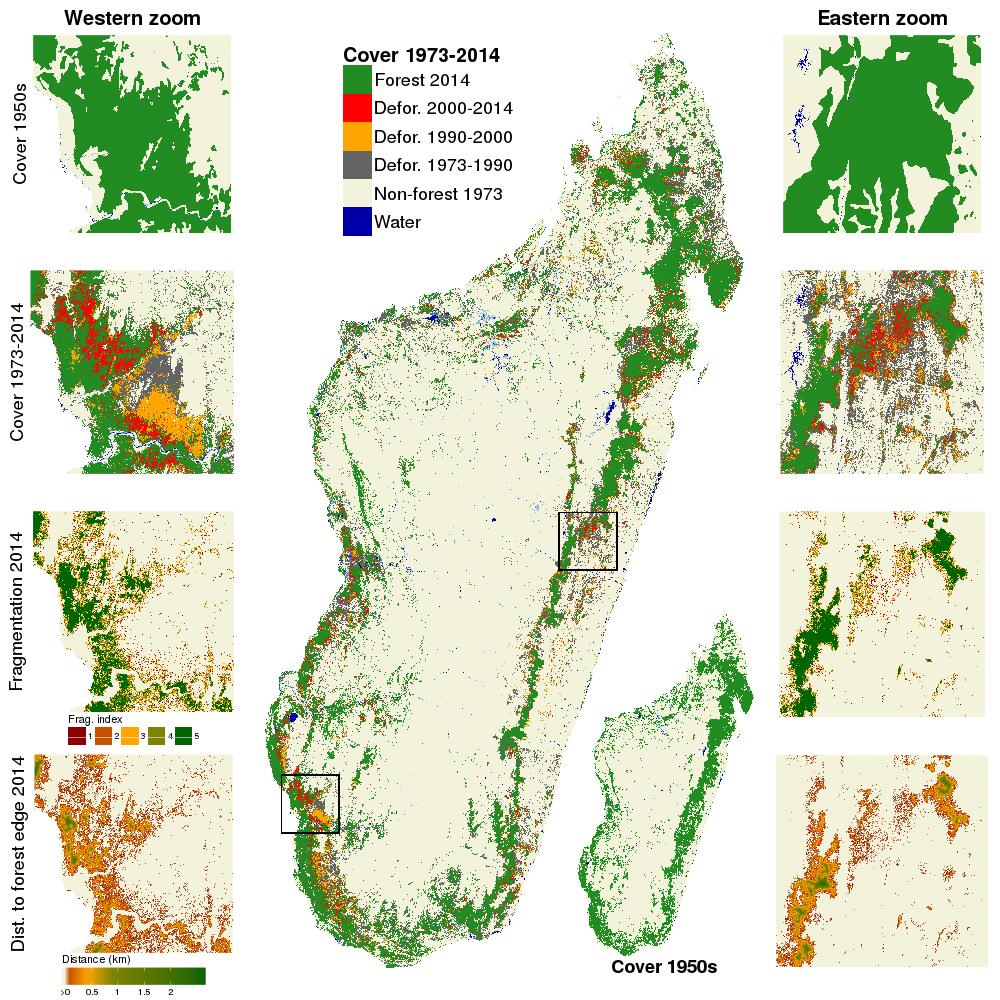
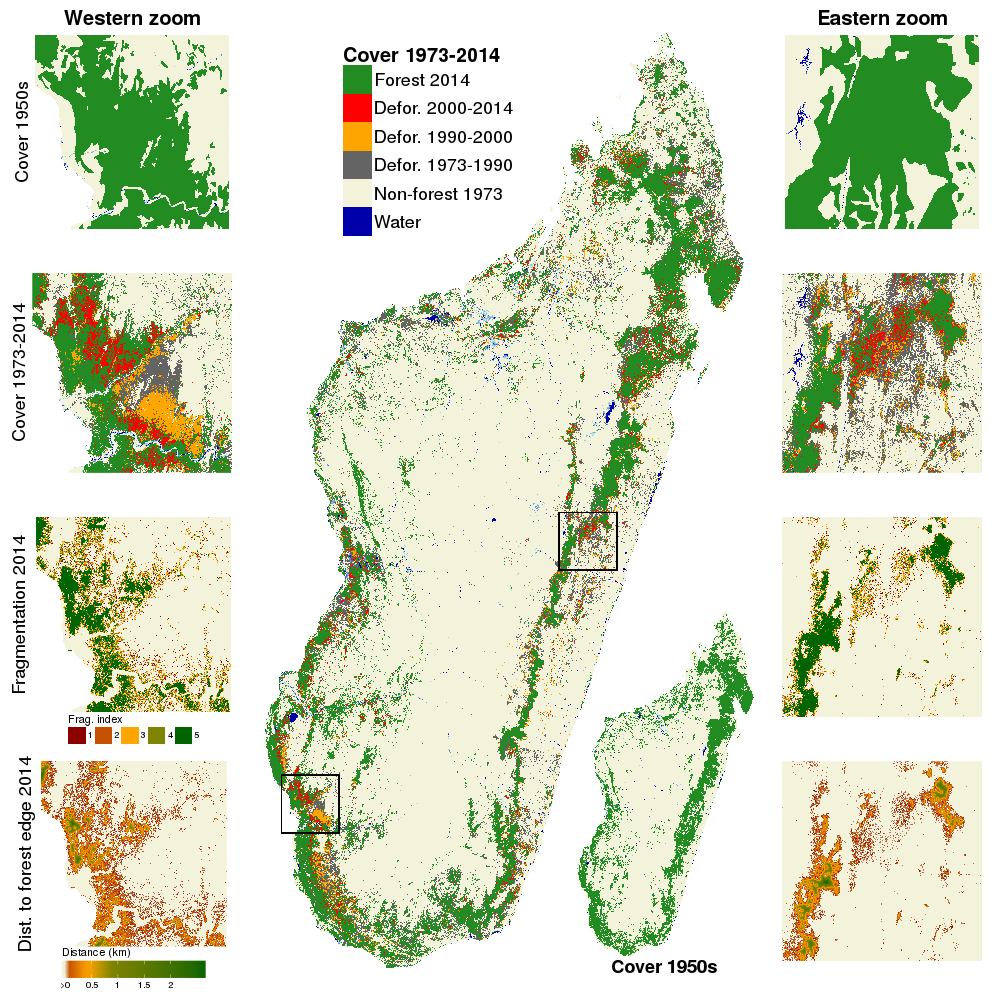
Update fig_fcc

diff --git a/README.md b/README.md
@@ -2,4 +2,4 @@
 
 Sixty years of deforestation and forest fragmentation in Madagascar
 
-<img alt="Evolution deforestation" src="outputs/fig_fcc.png" width="1000">
+<img alt="Evolution deforestation" src="outputs/fig_fcc_highres.png" width="1000">
